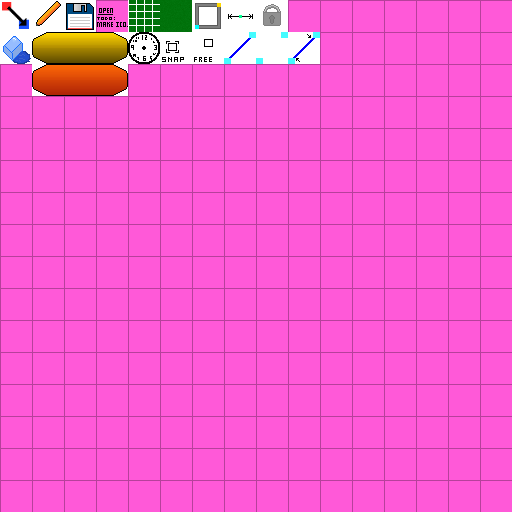
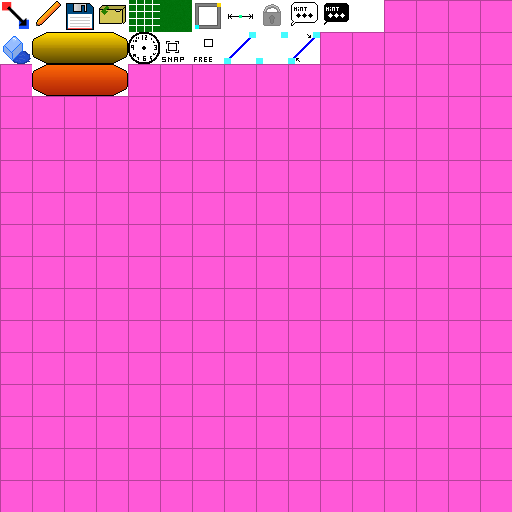
Added hints

Changed region(s): [[0.5625, 0.0, 0.75, 0.0625], [0.1875, 0.0, 0.25, 0.0625]]

diff --git a/game/screen/ScreenMapEditor.java b/game/screen/ScreenMapEditor.java
@@ -50,6 +50,7 @@ public class ScreenMapEditor extends Screen {
 	private static final int MODE_TILE = 0;
 	private static final int MODE_ENTITY = 1;
 	private static final int MODE_TRIGGER = 2;
+	private static final int MODE_HINT = 3;
 
 	private ArrayList<Tool> toolRegistry = new ArrayList<Tool>();
 	private ArrayList<Entity> entityRegistry = new ArrayList<Entity>();
@@ -112,6 +113,7 @@ public class ScreenMapEditor extends Screen {
 		addButton("toggleMode", new Rectangle(685, 520, 33, 32));
 		addButton("toggleSnap",new Rectangle(685, 579, 32, 32));
 		addButton("toggleTriggers", new Rectangle(723, 579, 32, 32));
+		addButton("addHint", new Rectangle(723, 519, 32, 32));
 		
 		addButton("save", new Rectangle(760, 515, 32, 32));
 		addButton("open", new Rectangle(760, 547, 32, 32));
@@ -179,8 +181,7 @@ public class ScreenMapEditor extends Screen {
 		for(int x = 0; x < tiles.length; x++)
 		{
 			for(int y = 0; y < tiles[x].length; y++)
-			{
-				
+			{	
 			Tile t = tiles[x][y];
 			t.tick();
 			g.drawImage(game.sheetTiles.getImage(t.sprite), x * 32, y * 32 ,32, 32, game);
@@ -195,8 +196,6 @@ public class ScreenMapEditor extends Screen {
 				}
 				}
 			}
-			
-				
 		}
 		try{
 		for(Trigger t : triggers)
@@ -206,23 +205,19 @@ public class ScreenMapEditor extends Screen {
 			g.setColor(Color.cyan);
 			g.drawLine(t.x, t.y, t.lx, t.ly);
 			}
-			
 			if(mode == MODE_TRIGGER)
 			{
 				if(new Rectangle(mx, my, 32,32).contains(t.x, t.y))
 				{
 					g.setColor(new Color(100,255,100,100));
 				}
-				g.fillRect(mx,my,32,32);
-			
-					
+				g.fillRect(mx,my,32,32);	
 			}
 		}
 		}catch(Exception e){}
 		for (Entity e : entities) {
 			e.render(g);
 		}
-
 	}
 	
 	@Override
@@ -272,22 +267,23 @@ public class ScreenMapEditor extends Screen {
 		drawToolSelection(104, 520, currentTool.getSprite(), "Tool", g);
 		drawEntitySelection(194, 520, currentEntity.sprite, "Entity", g);
 		drawTriggerSelection(298,520,currentTrigger.sprite, "Trigger", g);
-		g.drawImage(game.sheetUI.getImage(2), 760, 515, 32, 32, game);
-		g.drawImage(game.sheetUI.getImage(3), 760, 547, 32, 32, game);
-		g.drawImage(game.sheetUI.getImage(showGrid ? 5 : 4), 760, 579, 32, 32,game);
-		g.drawImage(game.sheetUI.getImage(snapToGrid ? 21 : 22), 685, 579, 32, 32,game);
-		g.drawImage(game.sheetUI.getImage(linkmode == 0 ? showTriggers ? 23 : 24 : 25), 723, 579, 32, 32,game);
+		g.drawImage(game.sheetUI.getImage(2), 760, 515, 32, 32, game); // Save icon
+		g.drawImage(game.sheetUI.getImage(3), 760, 547, 32, 32, game); //Open icon
+		g.drawImage(game.sheetUI.getImage(showGrid ? 5 : 4), 760, 579, 32, 32,game); //Show grid icon
+		g.drawImage(game.sheetUI.getImage(snapToGrid ? 21 : 22), 685, 579, 32, 32,game); //Snap to grid icon
+		g.drawImage(game.sheetUI.getImage(linkmode == 0 ? showTriggers ? 23 : 24 : 25), 723, 579, 32, 32,game); //Trigger show link icon
+		g.drawImage(game.sheetUI.getImage(mode == MODE_HINT ? 10 : 9), 723, 519, 32, 32,game); //Hint mode icon
 		
 		g.setColor(Color.BLACK);
-		g.drawRect(685, 520, 32, 32);
-		g.drawRect(685, 579, 32, 32);
-		g.drawRect(760, 579, 32, 32);
-		g.drawRect(723, 579, 32, 32);
+		g.drawRect(685, 520, 32, 32); //Mode square
+		g.drawRect(685, 579, 32, 32); //Snap to grid square
+		g.drawRect(760, 579, 32, 32); //Show grid square
+		g.drawRect(723, 579, 32, 32); //Trigger show link square
 		
 		g.setColor(new Color(0, 0, 0, 135));
-		g.fillRect(685, 520, 33, 32);
+		g.fillRect(685, 520, 33, 32); //Mode shaded square
 		
-		game.getFontRenderer().drawString(mode == MODE_ENTITY ? "ENT" : mode == MODE_TILE ? "TILE" : "TRIG", 685,527, 1);
+		game.getFontRenderer().drawString(mode == MODE_ENTITY ? "ENT" : mode == MODE_TILE ? "TILE" : mode == MODE_HINT ? "HINT" : "TRIG", 685,527, 1);
 		game.getFontRenderer().drawString("MODE", 685, 537, 1);
 		if (openMenu == MENU_TILE) {
 			drawMenuBox(10, 320, 400, 200, g);
@@ -361,6 +357,8 @@ public class ScreenMapEditor extends Screen {
 				break;
 			}
 		}
+		if(mode == MODE_HINT)
+			g.drawImage(game.sheetUI.getImage(11), mx, my, 32, 32,game);
 	}
 
 	@Override
@@ -616,6 +614,10 @@ public class ScreenMapEditor extends Screen {
 			if(mode > MODE_TRIGGER)
 				mode = MODE_TILE;
 			return;
+		}
+		if(name.equals("addHint"))
+		{
+			mode = mode == MODE_HINT ? MODE_TILE : MODE_HINT;
 		}
 		if (openMenu == MENU_TOOL) {
 			currentTool = toolRegistry.get(Integer.parseInt(name));

diff --git a/game/utils/FileSaver.java b/game/utils/FileSaver.java
@@ -45,6 +45,8 @@ public class FileSaver {
 			out.println("DESC "+map.desc);
 			out.println("LOCKED "+map.isLocked);
 			out.println("LEVEL "+map.isLevel);
+			if(map.hint != null)
+				out.println("HINT "+map.hint+" "+map.tx+" "+map.ty+" "+map.ts);
 			
 			
 			//SAVE TILES
@@ -109,6 +111,13 @@ public class FileSaver {
 						}
 						if(args[0].equals("LOCKED"))map.isLocked = args[1].equals("true");
 						if(args[0].equals("LEVEL"))map.isLevel = args[1].equals("true");
+						if(args[0].equals("HINT"))
+						{
+							map.hint = args[1].replace("_", " ");
+							map.tx = Integer.parseInt(args[2]);
+							map.ty = Integer.parseInt(args[3]);
+							map.ts = Integer.parseInt(args[4]);
+						}
 						if(args[0].equals("TILES"))readMode = 1;
 						if(args[0].equals("ENTITIES"))readMode = 2;
 						if(args[0].equals("TRIGGERS"))readMode = 3;

diff --git a/game/Map.java b/game/Map.java
@@ -18,6 +18,9 @@ public class Map implements Serializable {
 
 	public String name = "Corrupted map", desc = "This map is corrupted", version = "v0.0.0";
 	public boolean isLocked = true, isLevel = false;
+	public int tx, ty, ts;
+	public String hint;
+	
 
 	//public HashMap<Rectangle, Tile> tiles = new HashMap<Rectangle, Tile>();
 	public Tile[][] tiles = new Tile[Game.XTILES][Game.YTILES];

diff --git a/game/screen/ScreenGame.java b/game/screen/ScreenGame.java
@@ -236,6 +236,8 @@ public class ScreenGame extends Screen
 			g.setColor(new Color(255,0,0,40+player.hurtTimer));
 			g.fillRect(0, 0, 800, 600);
 		}
+		if(map.hint != null)
+		game.getFontRenderer().drawString(map.hint, map.tx, map.ty, map.ts);
 		if(drawDebugBoxes)
 		{
 			game.getFontRenderer().drawString("PlYR", player.x, player.y, 1);

diff --git a/game/entity/Entity.java b/game/entity/Entity.java
@@ -14,7 +14,7 @@ public class Entity implements Serializable {
 	public Game game;
 
 	public int x = 59, y = 50;
-	private int speedMultiplier = 1;
+	private int speedMultiplier = 2;
 	public boolean forRemoval = false;
 	int health = 20;
 
